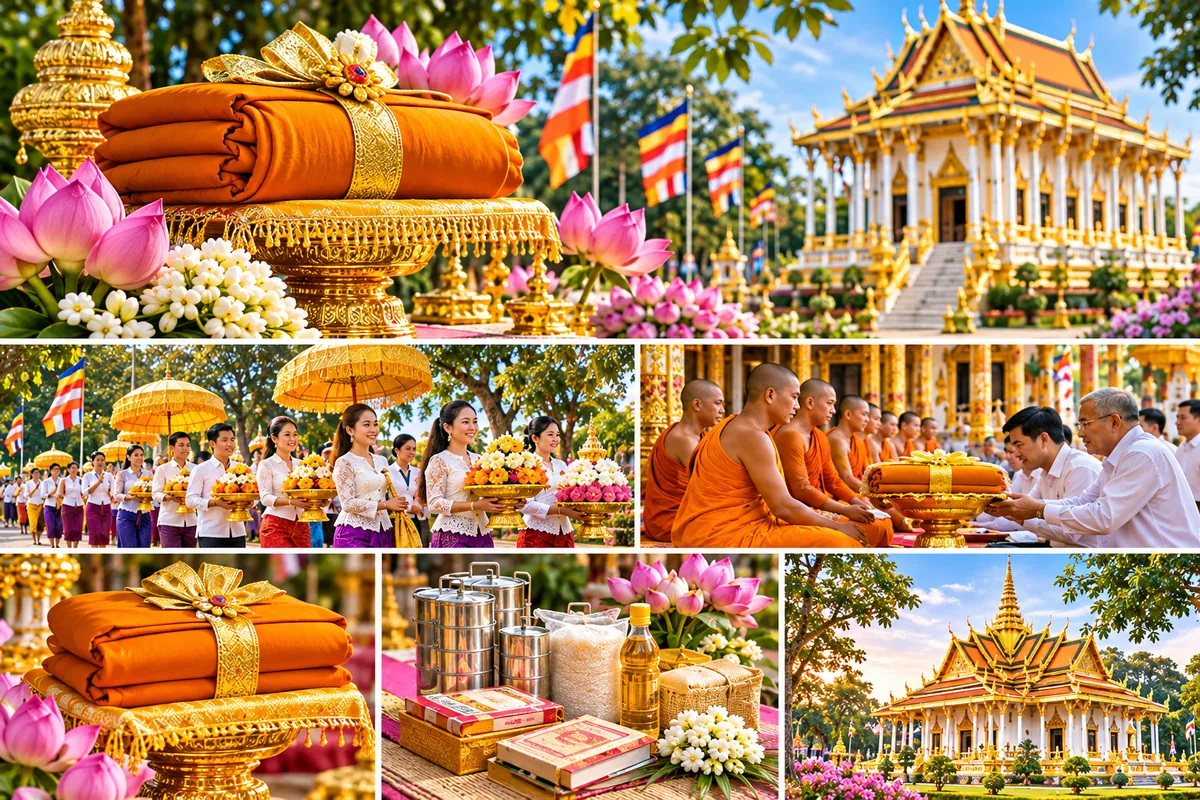
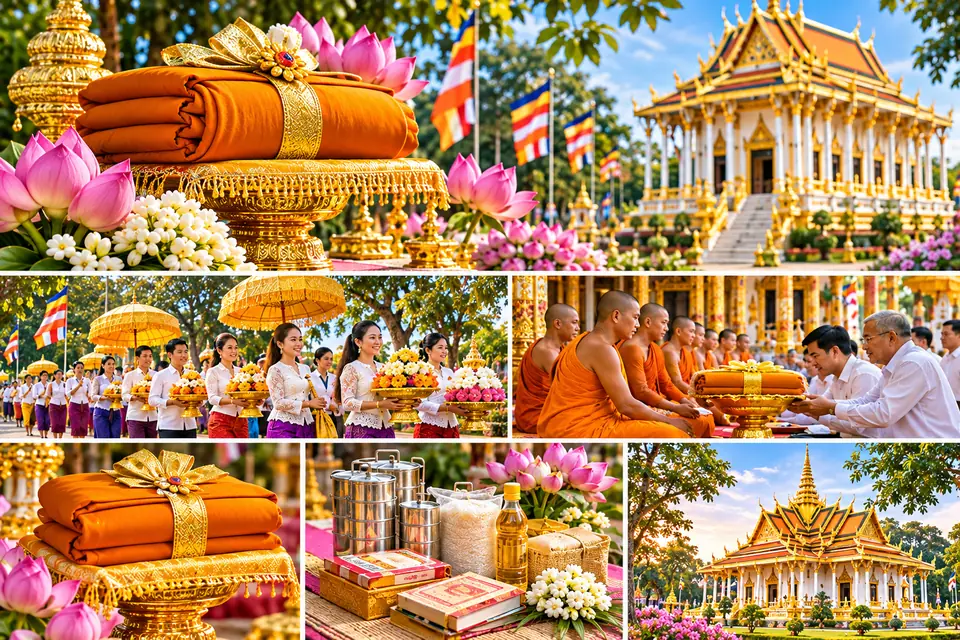
Page speed (Core Web Vitals): no font jump, non-blocking scripts, earlier hero pictures
Applied by scripts/build-site.mjs to every published page:
- Google Fonts display=optional (was swap): Khmer pages no longer shift when the web font arrives
  (lab test, slow phone: CLS 0.10-0.15 -> 0 on /km/, Khmer daily fortune, Khmer checker).
- The site's own scripts at the end of <body> get defer (same order, run before DOMContentLoaded; inline scripts
  already wait for DOMContentLoaded). Checked 200 pages before/after: same text, no new errors.
- Pages with the night-sky hero preload its picture and the day's gold animal (daily fortune LCP 3.05 s -> 1.90 s
  English, 3.32 s -> 2.02 s Khmer in the lab test).
Khmer Kathen picture recompressed (295 KB -> 171 KB, 960x640).

Claude-Session: https://claude.ai/code/session_01CLtdrZm1piM9T373YnQKig

diff --git a/blog/kathen-robe-offering-season.html b/blog/kathen-robe-offering-season.html
@@ -58,7 +58,7 @@
 <section><h2>Sources and further reading</h2><ul><li><a href="https://en.wikipedia.org/wiki/Ka%E1%B9%ADhina" target="_blank" rel="noopener">Wikipedia: Kathina</a> — overview of the festival, the origin story at Saketa and the meaning of the word.</li><li><a href="https://www.dhammatalks.org/vinaya/bmc/Section0057.html" target="_blank" rel="noopener">Thanissaro Bhikkhu, The Buddhist Monastic Code, Chapter 17</a> — the monastic rules for the kathina: timing, quorum, the donor and making the robe the same day.</li><li><a href="https://english.cambodiadaily.com/?p=18118" target="_blank" rel="noopener">The Cambodia Daily: “Kathen Holiday Season a Time for Rebuilding” (26 October 2000)</a> — a first-hand account of a Kathen day in Cambodia: offerings, procession and village participation.</li><li><a href="https://www.norodomsihamoni.org/en/news/2022-10-11_1" target="_blank" rel="noopener">Official website of King Norodom Sihamoni: “The ritual Ang Kathen” (11 October 2022)</a> — record of a royal Kathen ritual for Svay Popè Pagoda.</li><li><a href="https://www.cambodgemag.com/en/post/tradition-cambodia-s-annual-kathina-celebration-begins-tomorrow" target="_blank" rel="noopener">Cambodgemag: “Cambodia's annual Kathina celebration begins tomorrow” (17 October 2024)</a> — describes the season as running from the first waning day of Assoch to the full moon of Kadeuk.</li></ul>
 <p class="note">Dates for lunar observances follow the Khmer lunar calendar and can differ by a day locally. Check with your pagoda or official announcements for exact times.</p></section>
 <p><strong>Explore more:</strong> <a href="chol-vassa-buddhist-lent">Chol Vassa (Buddhist Lent)</a> · <a href="cambodian-buddhist-holy-days">Cambodian Buddhist Holy Days</a> · <a href="cambodia-water-festival-bon-om-touk">Water Festival (Bon Om Touk)</a> · <a href="cambodian-public-holidays">Cambodian Public Holidays</a></p><a class="back" href="../blog.html">← Back to the MyBirthSign Blog</a></div>
-<div data-lang-content="km" lang="km"><p class="eyebrow">ប្រពៃណីព្រះពុទ្ធសាសនា</p><h1>ពិធីបុណ្យកឋិនទាន៖ រដូវកាលវេរចីវរប្រគេនព្រះសង្ឃ ក្រោយចេញព្រះវស្សា</h1><p class="lead">ប្រមាណមួយខែ ក្រោយពេលចេញព្រះវស្សា វត្តអារាមនានាទូទាំងប្រទេសកម្ពុជា រៀបចំពិធីបុណ្យកឋិនទាន ដែលពុទ្ធបរិស័ទនាំយកសំពត់ និងចីវរថ្មីៗ ទៅវេរប្រគេនព្រះសង្ឃ។</p><p class="meta">ចុះផ្សាយ <time datetime="2026-10-25">25/10/2026</time> · MyBirthSign</p><div class="facts"><div class="fact"><strong>រដូវកាលឆ្នាំ 2026</strong>27/10/2026 – 24/11/2026</div><div class="fact"><strong>ចាប់ផ្ដើម</strong>ថ្ងៃបន្ទាប់ពីចេញព្រះវស្សា</div><div class="fact"><strong>បញ្ចប់</strong>ថ្ងៃពេញបូណ៌មី ខែកត្តិក</div></div><figure><img src="../images/guides/kathen-km.webp" alt="សំពត់ចីវរលើពានមាស ក្បួនដង្ហែកឋិន ព្រះសង្ឃទទួលចីវរ និងគ្រឿងប្រើប្រាស់សម្រាប់វេរប្រគេនវត្ត" width="1200" height="800" decoding="async"><figcaption>រូបភាពគំនូរ មិនមែនជារូបថតនៃពិធីកឋិនណាមួយពិតប្រាកដទេ។</figcaption></figure>
+<div data-lang-content="km" lang="km"><p class="eyebrow">ប្រពៃណីព្រះពុទ្ធសាសនា</p><h1>ពិធីបុណ្យកឋិនទាន៖ រដូវកាលវេរចីវរប្រគេនព្រះសង្ឃ ក្រោយចេញព្រះវស្សា</h1><p class="lead">ប្រមាណមួយខែ ក្រោយពេលចេញព្រះវស្សា វត្តអារាមនានាទូទាំងប្រទេសកម្ពុជា រៀបចំពិធីបុណ្យកឋិនទាន ដែលពុទ្ធបរិស័ទនាំយកសំពត់ និងចីវរថ្មីៗ ទៅវេរប្រគេនព្រះសង្ឃ។</p><p class="meta">ចុះផ្សាយ <time datetime="2026-10-25">25/10/2026</time> · MyBirthSign</p><div class="facts"><div class="fact"><strong>រដូវកាលឆ្នាំ 2026</strong>27/10/2026 – 24/11/2026</div><div class="fact"><strong>ចាប់ផ្ដើម</strong>ថ្ងៃបន្ទាប់ពីចេញព្រះវស្សា</div><div class="fact"><strong>បញ្ចប់</strong>ថ្ងៃពេញបូណ៌មី ខែកត្តិក</div></div><figure><img src="../images/guides/kathen-km.webp" alt="សំពត់ចីវរលើពានមាស ក្បួនដង្ហែកឋិន ព្រះសង្ឃទទួលចីវរ និងគ្រឿងប្រើប្រាស់សម្រាប់វេរប្រគេនវត្ត" width="960" height="640" decoding="async"><figcaption>រូបភាពគំនូរ មិនមែនជារូបថតនៃពិធីកឋិនណាមួយពិតប្រាកដទេ។</figcaption></figure>
 <section><h2>តើកឋិនទានជាអ្វី?</h2>
 <p>កឋិន (មកពីពាក្យបាលី <em>kathina</em>) គឺជាពិធីបុណ្យក្នុងព្រះពុទ្ធសាសនាថេរវាទ ដែលប្រារព្ធឡើងក្រោយព្រះវស្សា ពោលគឺរយៈពេលបីខែនៃរដូវវស្សា ដែលព្រះសង្ឃគង់នៅប្រចាំវត្តរបស់ខ្លួន (ខ្មែរហៅការចាប់ផ្ដើមនេះថា ចូលព្រះវស្សា)។ ពេលចេញព្រះវស្សាហើយ ពុទ្ធបរិស័ទនាំយកសំពត់ និងចីវរថ្មី ទៅវេរប្រគេនព្រះសង្ឃដែលបានគង់ចាំព្រះវស្សាគ្រប់បីខែ ព្រមទាំងបច្ច័យ និងគ្រឿងប្រើប្រាស់ផ្សេងៗសម្រាប់វត្ត។</p><p>ពាក្យ <em>kathina</em> សំដៅលើ «ក្រប» ឬ «ស៊ុម»។ តាមរឿងរ៉ាវប្រពៃណី គេប្រើក្របឈើ ដើម្បីទប់បំណែកសំពត់ដែលគេវេរប្រគេន ពេលព្រះសង្ឃដេរផ្គុំវាជាចីវរមួយ។ ទោះបីសព្វថ្ងៃ ចីវរភាគច្រើនត្រូវបានដេររួចជាស្រេចក៏ដោយ ពិធីនេះនៅតែរក្សាឈ្មោះដដែល។</p></section>
 <section><h2>រឿងរ៉ាវដើមកំណើត</h2>
